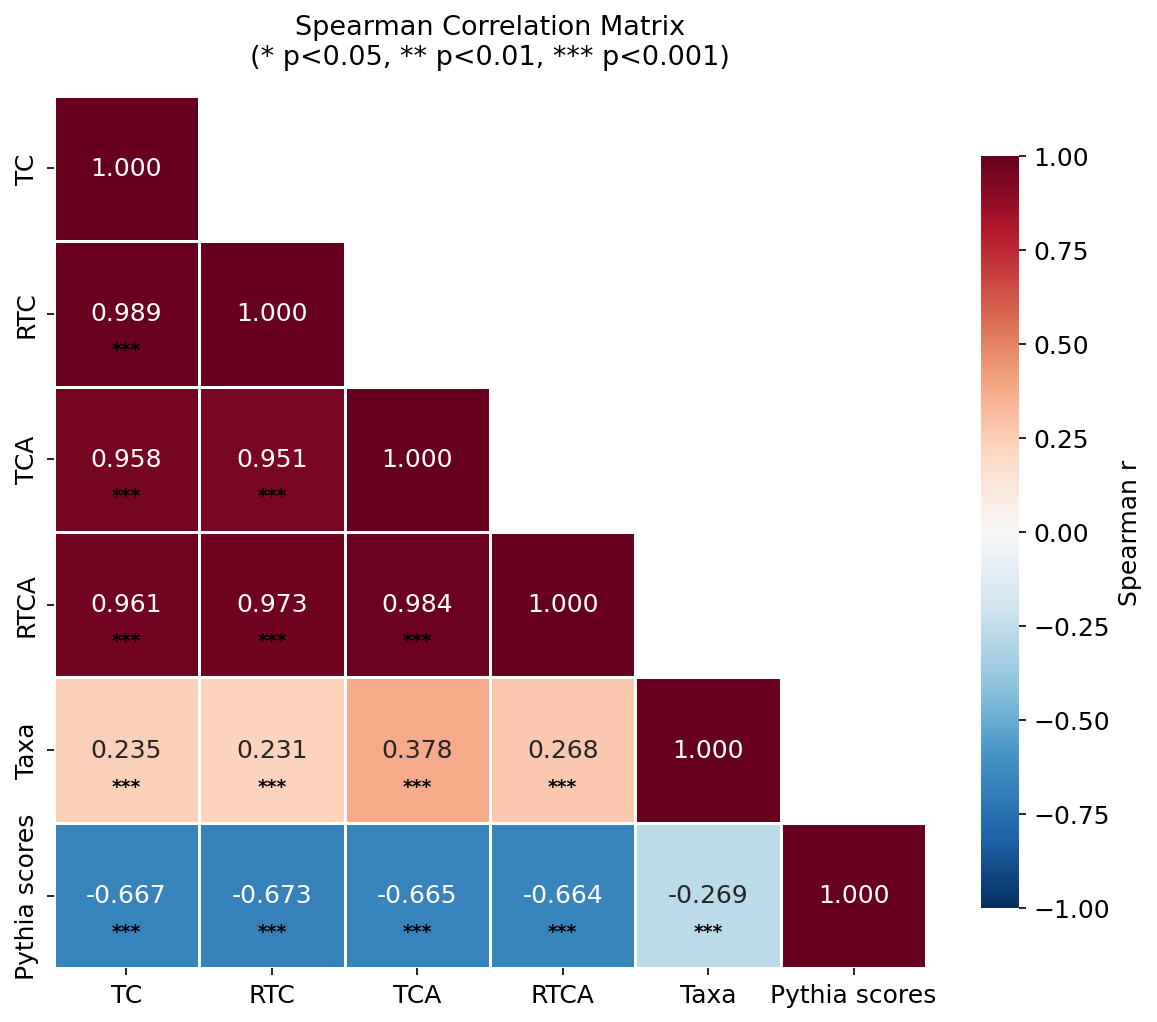
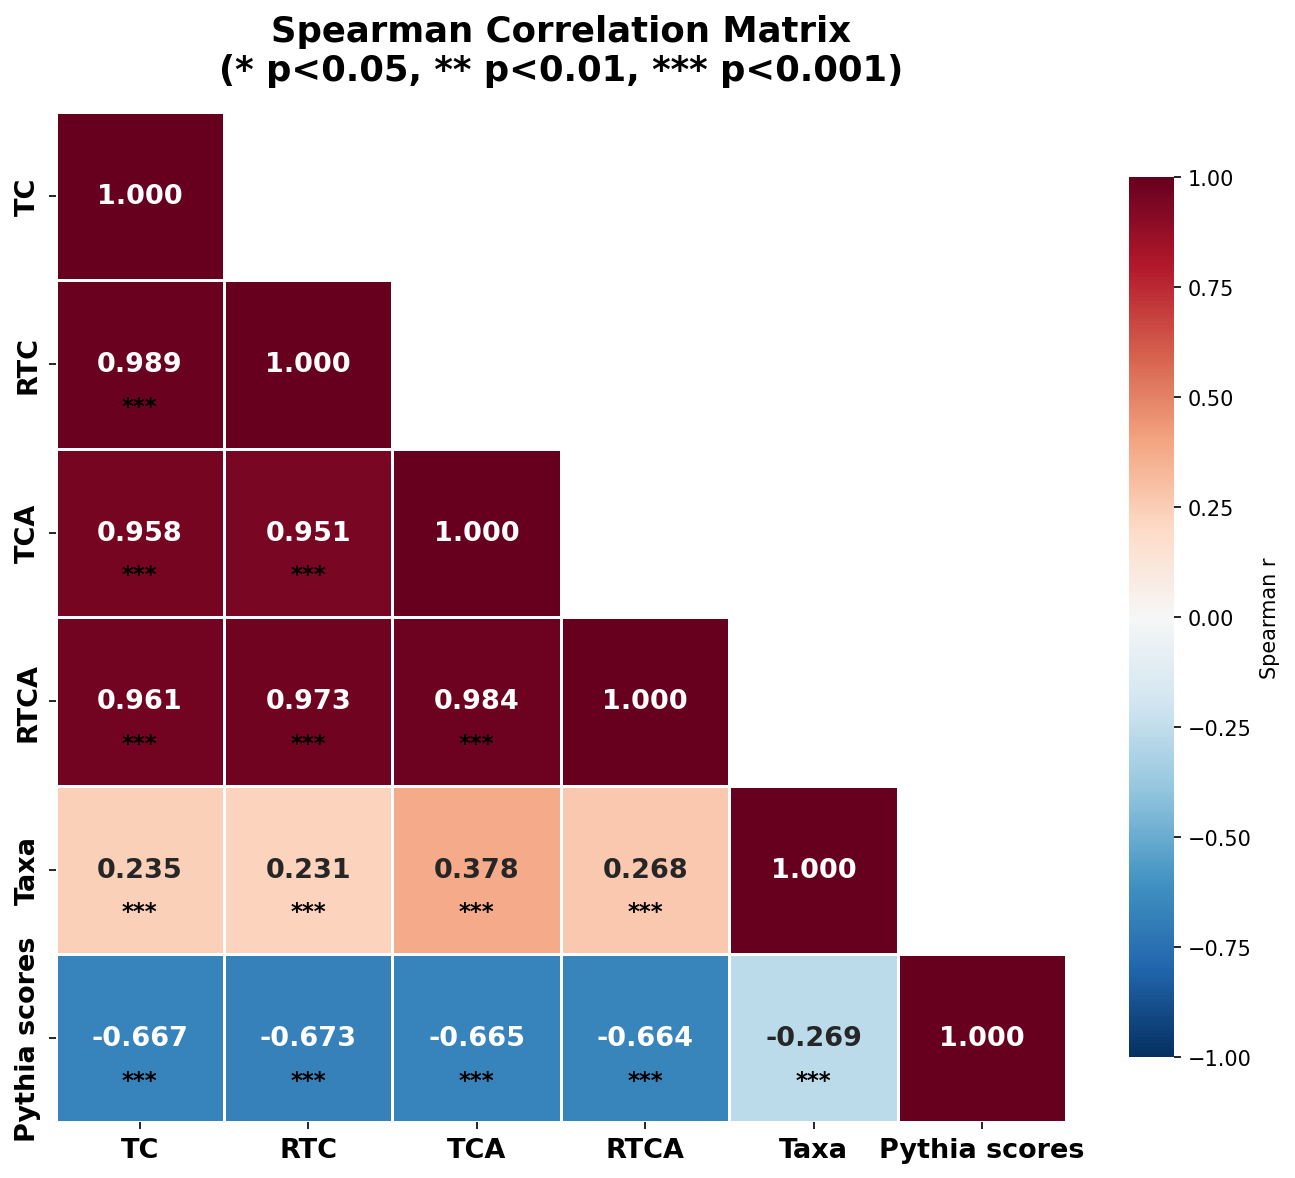
Fix publication figures: bold labels, deep navy dots, abs(TCA) labels, RTC bar fix

diff --git a/scripts/2trialSingleFiguresanalyse_orthologs.py b/scripts/2trialSingleFiguresanalyse_orthologs.py
@@ -1,0 +1,323 @@
+#!/usr/bin/env python3
+"""
+Ortholog Analysis Pipeline - Publication Style
+Author: Tomi
+"""
+
+import pandas as pd
+import numpy as np
+import matplotlib.pyplot as plt
+import matplotlib.ticker as ticker
+import seaborn as sns
+from scipy import stats
+from sklearn.linear_model import LinearRegression
+from sklearn.preprocessing import StandardScaler
+from sklearn.metrics import r2_score
+import os
+import warnings
+warnings.filterwarnings("ignore")
+
+# ── CONFIGURATION ─────────────────────────────────────────────────────────────
+CSV_PATH      = os.path.expanduser("~/data/standard-RAxML/InformationTheoryTJ/Correlation_TreeStats.csv")
+TREEFILE_DIR  = os.path.expanduser("~/data/standard-RAxML/InformationTheoryTJ/InfoToCalc")
+OUTPUT_DIR    = os.path.expanduser("~/data/standard-RAxML/InformationTheoryTJ/Analysis_Output_PublicationStyle")
+
+PYTHIA_THRESHOLD = 0.5
+TCA_PERCENTILE   = 75
+ASTRAL_JAR       = os.path.expanduser("~/data/ASTRAL/Astral/astral.5.7.8.jar")
+# ──────────────────────────────────────────────────────────────────────────────
+
+os.makedirs(OUTPUT_DIR, exist_ok=True)
+
+# ── COLORS ────────────────────────────────────────────────────────────────────
+NAVY    = '#0d1b2a'   # deep navy for scatter dots
+CRIMSON = '#c0392b'
+GREEN   = '#27ae60'
+GRAY    = '#bdc3c7'
+
+# ── HELPER: apply bold ticks ──────────────────────────────────────────────────
+def bold_ticks(ax, fontsize=13):
+    for label in ax.get_xticklabels() + ax.get_yticklabels():
+        label.set_fontweight('bold')
+        label.set_fontsize(fontsize)
+
+# ── 1. LOAD DATA ──────────────────────────────────────────────────────────────
+print("Loading data...")
+df = pd.read_csv(CSV_PATH)
+df.columns = df.columns.str.strip()
+score_cols = ['TC', 'RTC', 'TCA', 'RTCA', 'Taxa', 'Pythia scores']
+df_scores  = df[score_cols].copy()
+print(f"  Loaded {len(df)} orthologs\n")
+
+# ── 2. SPEARMAN CORRELATION MATRIX ───────────────────────────────────────────
+print("Computing Spearman correlations...")
+corr_matrix = df_scores.corr(method='spearman')
+
+p_matrix = pd.DataFrame(np.ones((len(score_cols), len(score_cols))),
+                         index=score_cols, columns=score_cols)
+for i, col1 in enumerate(score_cols):
+    for j, col2 in enumerate(score_cols):
+        if i != j:
+            r, p = stats.spearmanr(df_scores[col1], df_scores[col2])
+            p_matrix.loc[col1, col2] = p
+
+corr_out = os.path.join(OUTPUT_DIR, "spearman_correlation_matrix.csv")
+corr_matrix.round(4).to_csv(corr_out)
+
+print("\n  Spearman correlations with Pythia difficulty:")
+for col in ['TC', 'RTC', 'TCA', 'RTCA', 'Taxa']:
+    r, p = stats.spearmanr(df_scores[col], df_scores['Pythia scores'])
+    sig = "***" if p < 0.001 else ("**" if p < 0.01 else ("*" if p < 0.05 else "ns"))
+    print(f"    {col:12s}: r = {r:+.4f}, p = {p:.2e} {sig}")
+
+# ── 3. CORRELATION HEATMAP ───────────────────────────────────────────────────
+print("\nPlotting correlation heatmap...")
+fig, ax = plt.subplots(figsize=(9, 8))
+mask = np.triu(np.ones_like(corr_matrix, dtype=bool), k=1)
+sns.heatmap(
+    corr_matrix, mask=mask, annot=True, fmt=".3f",
+    cmap="RdBu_r", center=0, vmin=-1, vmax=1,
+    square=True, linewidths=0.5,
+    annot_kws={"size": 13, "weight": "bold"},
+    cbar_kws={"shrink": 0.8, "label": "Spearman r"}, ax=ax
+)
+for i, row in enumerate(score_cols):
+    for j, col in enumerate(score_cols):
+        if i > j:
+            p = p_matrix.loc[row, col]
+            sig = "***" if p < 0.001 else ("**" if p < 0.01 else ("*" if p < 0.05 else ""))
+            if sig:
+                ax.text(j + 0.5, i + 0.75, sig, ha='center', va='center',
+                        fontsize=11, color='black', fontweight='bold')
+ax.set_title("Spearman Correlation Matrix\n(* p<0.05, ** p<0.01, *** p<0.001)",
+             fontsize=17, fontweight='bold', pad=15)
+ax.set_xticklabels(ax.get_xticklabels(), fontweight='bold', fontsize=13)
+ax.set_yticklabels(ax.get_yticklabels(), fontweight='bold', fontsize=13)
+plt.tight_layout()
+path = os.path.join(OUTPUT_DIR, "correlation_heatmap.png")
+plt.savefig(path, dpi=150, bbox_inches='tight')
+plt.close()
+print(f"  Saved → {path}")
+
+# ── 4. INDIVIDUAL SCATTER PLOTS ───────────────────────────────────────────────
+print("\nPlotting individual scatter plots vs Pythia difficulty...")
+predictors = ['TC', 'RTC', 'TCA', 'RTCA', 'Taxa']
+
+for col in predictors:
+    fig, ax = plt.subplots(figsize=(8, 6))
+
+    x = df_scores[col]
+    y = df_scores['Pythia scores']
+
+    # Deep navy dots
+    ax.scatter(x, y, alpha=0.5, s=14, color=NAVY,
+               rasterized=True, linewidths=0)
+
+    # Crimson regression line
+    m, b, _, _, _ = stats.linregress(x, y)
+    xline = np.linspace(x.min(), x.max(), 300)
+    ax.plot(xline, m * xline + b, color=CRIMSON, linewidth=2.5, zorder=5)
+
+    r_sp, p_sp = stats.spearmanr(x, y)
+    sig = "***" if p_sp < 0.001 else ("**" if p_sp < 0.01 else ("*" if p_sp < 0.05 else "ns"))
+
+    # Bold title and axis labels
+    ax.set_xlabel(col, fontsize=15, fontweight='bold', labelpad=8)
+    ax.set_ylabel("Pythia Difficulty", fontsize=15, fontweight='bold', labelpad=8)
+    ax.set_title(f"{col} vs Pythia Difficulty\nSpearman r = {r_sp:+.3f}  {sig}  (n={len(df)})",
+                 fontsize=16, fontweight='bold', pad=10)
+
+    # Bold tick labels and visible tick marks
+    bold_ticks(ax, fontsize=13)
+    ax.tick_params(axis='both', which='major', length=6, width=1.5, direction='out')
+
+    # Spine thickness
+    for spine in ax.spines.values():
+        spine.set_linewidth(1.5)
+
+    ax.grid(True, alpha=0.3, linestyle='--', linewidth=0.8)
+
+    # Stats box
+    ax.text(0.97, 0.97,
+            f"r = {r_sp:+.3f}\np = {p_sp:.2e}",
+            transform=ax.transAxes,
+            ha='right', va='top', fontsize=12,
+            fontweight='bold',
+            bbox=dict(boxstyle='round,pad=0.4', facecolor='white',
+                      edgecolor='gray', alpha=0.9))
+
+    plt.tight_layout()
+    fname = os.path.join(OUTPUT_DIR, f"scatter_{col}_vs_Pythia.png")
+    plt.savefig(fname, dpi=150, bbox_inches='tight')
+    plt.close()
+    print(f"  Saved → {fname}")
+
+# ── 5. MULTIPLE REGRESSION ────────────────────────────────────────────────────
+print("\nRunning multiple regression...")
+X = df_scores[predictors].values
+y = df_scores['Pythia scores'].values
+
+scaler  = StandardScaler()
+X_sc    = scaler.fit_transform(X)
+reg     = LinearRegression()
+reg.fit(X_sc, y)
+y_pred  = reg.predict(X_sc)
+r2      = r2_score(y, y_pred)
+n_s, n_f = X.shape
+r2_adj  = 1 - (1 - r2) * (n_s - 1) / (n_s - n_f - 1)
+
+print(f"  R²          = {r2:.4f}")
+print(f"  Adjusted R² = {r2_adj:.4f}")
+
+# ── wider figure + big left margin so labels never overlap bars ───────────────
+fig, ax = plt.subplots(figsize=(10, 5))
+plt.subplots_adjust(left=0.18)          # extra left space for y-tick labels
+
+colors = [GREEN if c > 0 else CRIMSON for c in reg.coef_]
+bars   = ax.barh(predictors, reg.coef_, color=colors, edgecolor='white', height=0.55)
+ax.axvline(0, color='black', linewidth=1.8)
+
+ax.set_xlabel("Standardised Regression Coefficient", fontsize=14,
+              fontweight='bold', labelpad=8)
+ax.set_title(
+    f"Multiple Regression: Predicting Pythia Difficulty\n"
+    f"R\u00b2 = {r2:.3f}  |  Adjusted R\u00b2 = {r2_adj:.3f}",
+    fontsize=16, fontweight='bold', pad=10
+)
+
+# Bold y-tick labels with enough padding
+ax.set_yticks(range(len(predictors)))
+ax.set_yticklabels(predictors, fontsize=14, fontweight='bold')
+bold_ticks(ax, fontsize=13)
+ax.tick_params(axis='both', which='major', length=6, width=1.5, direction='out')
+
+for spine in ax.spines.values():
+    spine.set_linewidth(1.5)
+
+# Value labels outside the bars
+for bar, val in zip(bars, reg.coef_):
+    offset = 0.004 if val >= 0 else -0.004
+    ax.text(val + offset,
+            bar.get_y() + bar.get_height() / 2,
+            f'{val:+.3f}', va='center',
+            ha='left' if val >= 0 else 'right',
+            fontsize=12, fontweight='bold')
+
+ax.grid(True, axis='x', alpha=0.3, linestyle='--', linewidth=0.8)
+path = os.path.join(OUTPUT_DIR, "regression_coefficients.png")
+plt.savefig(path, dpi=150, bbox_inches='tight')
+plt.close()
+print(f"  Saved → {path}")
+
+# ── 6. FILTER IMPORTANT ORTHOLOGS ────────────────────────────────────────────
+print("\nFiltering important orthologs...")
+pythia_mask  = df['Pythia scores'] < PYTHIA_THRESHOLD
+tca_cutoff   = np.percentile(df['TCA'].abs(), TCA_PERCENTILE)
+tca_mask     = df['TCA'].abs() >= tca_cutoff
+combined     = pythia_mask & tca_mask
+df_filtered  = df[combined].copy()
+
+print(f"  Total                        : {len(df)}")
+print(f"  Pythia < {PYTHIA_THRESHOLD}                  : {pythia_mask.sum()}")
+print(f"  abs(TCA) >= {tca_cutoff:.2f} (top {100-TCA_PERCENTILE}%) : {tca_mask.sum()}")
+print(f"  Both filters combined        : {len(df_filtered)}")
+
+filtered_csv = os.path.join(OUTPUT_DIR, "filtered_orthologs.csv")
+df_filtered.to_csv(filtered_csv, index=False)
+print(f"  Saved → {filtered_csv}")
+
+# ── 7. FILTER DECISION PLOT ───────────────────────────────────────────────────
+fig, ax = plt.subplots(figsize=(9, 6))
+
+ax.scatter(df.loc[~combined, 'Pythia scores'],
+           df.loc[~combined, 'TCA'].abs(),
+           alpha=0.2, s=8, color=GRAY,
+           label='Excluded', rasterized=True)
+ax.scatter(df.loc[combined, 'Pythia scores'],
+           df.loc[combined, 'TCA'].abs(),
+           alpha=0.6, s=10, color=GREEN,
+           label=f'Selected (n={len(df_filtered)})', rasterized=True)
+
+ax.axvline(PYTHIA_THRESHOLD, color='steelblue', linestyle='--',
+           linewidth=2, label=f'Pythia < {PYTHIA_THRESHOLD}')
+ax.axhline(tca_cutoff, color=CRIMSON, linestyle='--',
+           linewidth=2, label=f'abs(TCA) >= {tca_cutoff:.2f} (top {100-TCA_PERCENTILE}%)')
+
+ax.set_xlabel("Pythia Difficulty", fontsize=15, fontweight='bold', labelpad=8)
+ax.set_ylabel("abs(TCA)", fontsize=15, fontweight='bold', labelpad=8)
+ax.set_title("Ortholog Filtering: Low Difficulty + High abs(TCA)",
+             fontsize=16, fontweight='bold', pad=10)
+
+bold_ticks(ax, fontsize=13)
+ax.tick_params(axis='both', which='major', length=6, width=1.5, direction='out')
+
+for spine in ax.spines.values():
+    spine.set_linewidth(1.5)
+
+ax.legend(fontsize=12, frameon=True, edgecolor='gray')
+ax.grid(True, alpha=0.3, linestyle='--', linewidth=0.8)
+
+plt.tight_layout()
+path = os.path.join(OUTPUT_DIR, "filter_decision_plot.png")
+plt.savefig(path, dpi=150, bbox_inches='tight')
+plt.close()
+print(f"  Saved → {path}")
+
+# ── 8. ASTRAL INPUT TREES ─────────────────────────────────────────────────────
+print("\nCollecting treefiles...")
+
+def get_treefile(name, tdir):
+    tf = os.path.join(tdir, name + ".treefile")
+    return tf if os.path.exists(tf) else None
+
+all_trees      = [t for n in df['Orthologs']
+                  for t in [get_treefile(n, TREEFILE_DIR)] if t]
+filtered_trees = [t for n in df_filtered['Orthologs']
+                  for t in [get_treefile(n, TREEFILE_DIR)] if t]
+
+print(f"  All orthologs : {len(all_trees)} treefiles")
+print(f"  Filtered      : {len(filtered_trees)} treefiles")
+
+all_tre  = os.path.join(OUTPUT_DIR, "all_orthologs_trees.tre")
+filt_tre = os.path.join(OUTPUT_DIR, "filtered_orthologs_trees.tre")
+
+for outfile, treelist in [(all_tre, all_trees), (filt_tre, filtered_trees)]:
+    with open(outfile, 'w') as fout:
+        for tf in treelist:
+            with open(tf) as fin:
+                fout.write(fin.read().strip() + "\n")
+
+# ── 9. ASTRAL COMMANDS ────────────────────────────────────────────────────────
+all_out  = os.path.join(OUTPUT_DIR, "ASTRAL_all_orthologs.tre")
+filt_out = os.path.join(OUTPUT_DIR, "ASTRAL_filtered_orthologs.tre")
+
+print("\n" + "="*65)
+print("ASTRAL COMMANDS:")
+print("="*65)
+print(f"\n# 1. Unfiltered ({len(all_trees)} orthologs):")
+print(f"java -jar {ASTRAL_JAR} -i {all_tre} -o {all_out} 2> {all_out}.log")
+print(f"\n# 2. Filtered ({len(filtered_trees)} orthologs):")
+print(f"java -jar {ASTRAL_JAR} -i {filt_tre} -o {filt_out} 2> {filt_out}.log")
+print("="*65)
+
+print(f"""
+╔══════════════════════════════════════════════════════════════╗
+║                    ANALYSIS COMPLETE                         ║
+╠══════════════════════════════════════════════════════════════╣
+║  Individual scatter plots:                                   ║
+║  • scatter_TC_vs_Pythia.png                                  ║
+║  • scatter_RTC_vs_Pythia.png                                 ║
+║  • scatter_TCA_vs_Pythia.png                                 ║
+║  • scatter_RTCA_vs_Pythia.png                                ║
+║  • scatter_Taxa_vs_Pythia.png                                ║
+║  Other plots:                                                ║
+║  • correlation_heatmap.png                                   ║
+║  • regression_coefficients.png                               ║
+║  • filter_decision_plot.png                                  ║
+║  Data files:                                                 ║
+║  • spearman_correlation_matrix.csv                           ║
+║  • filtered_orthologs.csv  ({len(df_filtered):>4} orthologs)              ║
+║  • all_orthologs_trees.tre  ({len(all_trees):>4} trees)                ║
+║  • filtered_orthologs_trees.tre  ({len(filtered_trees):>4} trees)           ║
+╚══════════════════════════════════════════════════════════════╝
+""")
